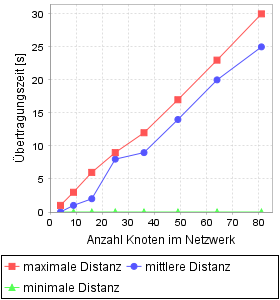
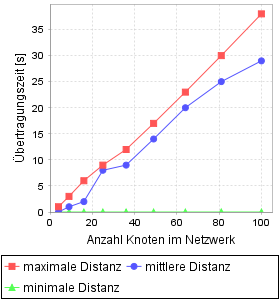
Bugfix

diff --git a/src/DSDV/DsdvNetworkNode.java b/src/DSDV/DsdvNetworkNode.java
@@ -60,7 +60,7 @@ public class DsdvNetworkNode extends NetworkNode{
 		}
 		else{
 			if(receivedMsg instanceof PayloadMessage){
-				//System.out.println(simulator.getNetworkLifetime() + " - Node " + id + ": recive Payload from Node " + receivedMsg.getSenderID());
+				System.out.println(simulator.getNetworkLifetime() + " - Node " + id + ": recive Payloadmsg from Node " + receivedMsg.getSenderID() + ". Source: " + ((PayloadMessage)receivedMsg).getPayloadSourceAdress() + " Sink: " + ((PayloadMessage)receivedMsg).getPayloadDestinationAdress() + " NextHop: "+ receivedMsg.getDestinationID());
 				this.receivePayloadMessage((PayloadMessage)receivedMsg);
 			}
 		}
@@ -98,7 +98,7 @@ public class DsdvNetworkNode extends NetworkNode{
 				}
 				else{
 					if((tableEntry.getSequenceNumber() == updateMessageEntry.getSequenceNumber()) && 
-							(tableEntry.getMetric() < updateMessageEntry.getMetric())){
+							(tableEntry.getMetric() > (updateMessageEntry.getMetric() +1))){
 						tableEntry.setNextHop(senderID);
 						tableEntry.setMetric(updateMessageEntry.getMetric() +1);
 						findMessageToSend(updateMessageEntry.getDestination(), updateMessageEntry.getMetric());
@@ -110,7 +110,7 @@ public class DsdvNetworkNode extends NetworkNode{
 		
 		//Forwardtable does not contailn destiantion from updateMessageEntry
 		ForwardTableEntry tableEntry = new ForwardTableEntry(updateMessageEntry.getDestination(), senderID, 
-				updateMessageEntry.getMetric(), updateMessageEntry.getSequenceNumber(), simulator.getNetworkLifetime());
+				updateMessageEntry.getMetric()+1, updateMessageEntry.getSequenceNumber(), simulator.getNetworkLifetime());
 		this.forwardTable.add(tableEntry);
 		findMessageToSend(updateMessageEntry.getDestination(), updateMessageEntry.getMetric());
 	}
@@ -160,6 +160,10 @@ public class DsdvNetworkNode extends NetworkNode{
 						&& (entry.getMetric() < Integer.MAX_VALUE)){
 					
 					msg.setDestinationID(entry.getNextHop());
+					
+					if(((PayloadMessage)msg).getPayloadSourceAdress() == this.id){
+						System.out.println("Node: " +this.id + " send msg to node " + ((PayloadMessage)msg).getPayloadDestinationAdress() + ". Distance: " + entry.getMetric());
+					}
 					
 					this.outputBuffer.add(msg);
 					this.numberTransmittedPayloadMsg++;

diff --git a/src/DSDV/DsdvEvaluationUnit.java b/src/DSDV/DsdvEvaluationUnit.java
@@ -16,7 +16,7 @@ import Simulator.EvaluationUnit;
 public class DsdvEvaluationUnit extends EvaluationUnit{
 
 	//private static final int networkWidth[] = {2, 3, 4, 5, 6, 7, 8, 9, 10, 11, 12, 13, 14};
-	private static final int networkWidth[] = {2, 3, 4, 5, 6, 7, 8, 9};
+	private static final int networkWidth[] = {2, 3, 4, 5, 6, 7, 8, 9, 10};
 	
 	private static final int CHART_HIGHT = 300;
 	private static final int CHART_WIDTH = 280;
@@ -43,6 +43,7 @@ public class DsdvEvaluationUnit extends EvaluationUnit{
 		for (int i = 0; i < networkWidth.length; i++) {
 			numberOfNodes[i] = Math.pow(networkWidth[i], 2);
 
+			
 			System.out.println("Min Simulation for " + Math.pow(networkWidth[i], 2) + " nodes. SourceNode: " + 0 + " SinkNode: 1");
 			transmissionTime_min[0][i] = numberOfNodes[i];
 			transmissionTime_min[1][i] = simulator.speedAnalysis(networkWidth[i], 0, 1)/1000;

diff --git a/src/SimulationNetwork/NetworkNode.java b/src/SimulationNetwork/NetworkNode.java
@@ -63,7 +63,7 @@ public abstract class NetworkNode {
 		inputBuffer = new LinkedList<Message>();
 		outputBuffer = new LinkedList<Message>();
 		// availableEnery = 4600L*3600L*1000L*1000L;
-		availableEnery = 5*NODE_BATTERY_ENERGY_FOR_ONE_HOUR_IN_IDLE_MODE;
+		availableEnery = NODE_BATTERY_ENERGY_FOR_ONE_DAY_IN_IDLE_MODE;
 		idleTime = 0L;
 		reciveTime = 0L;
 		transmissionTime = 0L;
